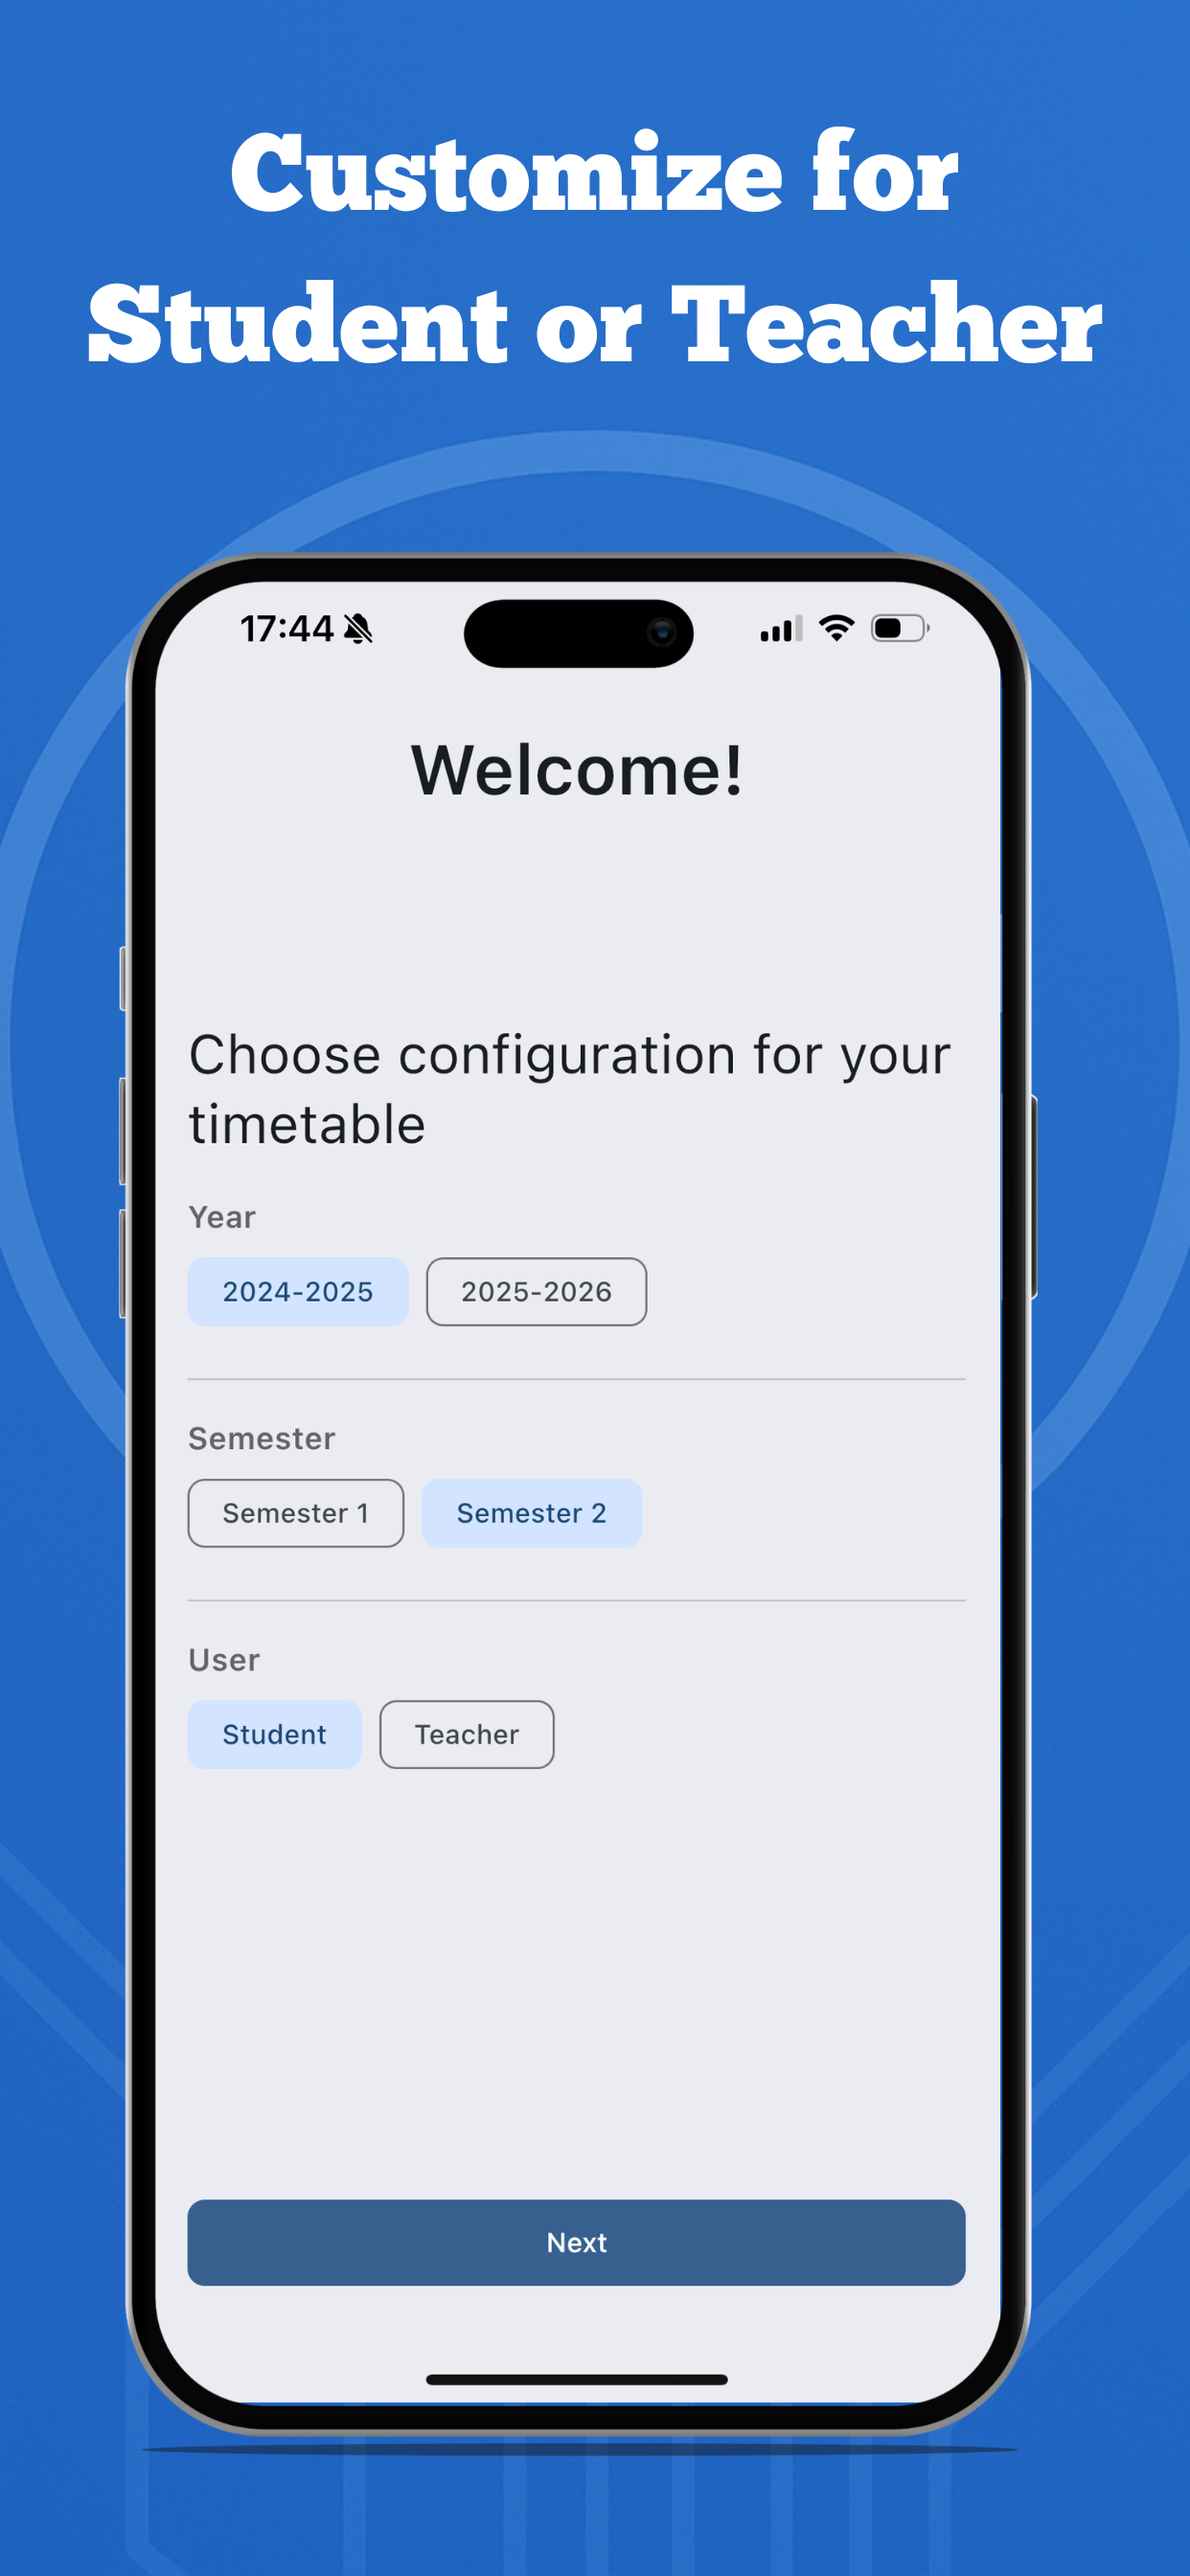
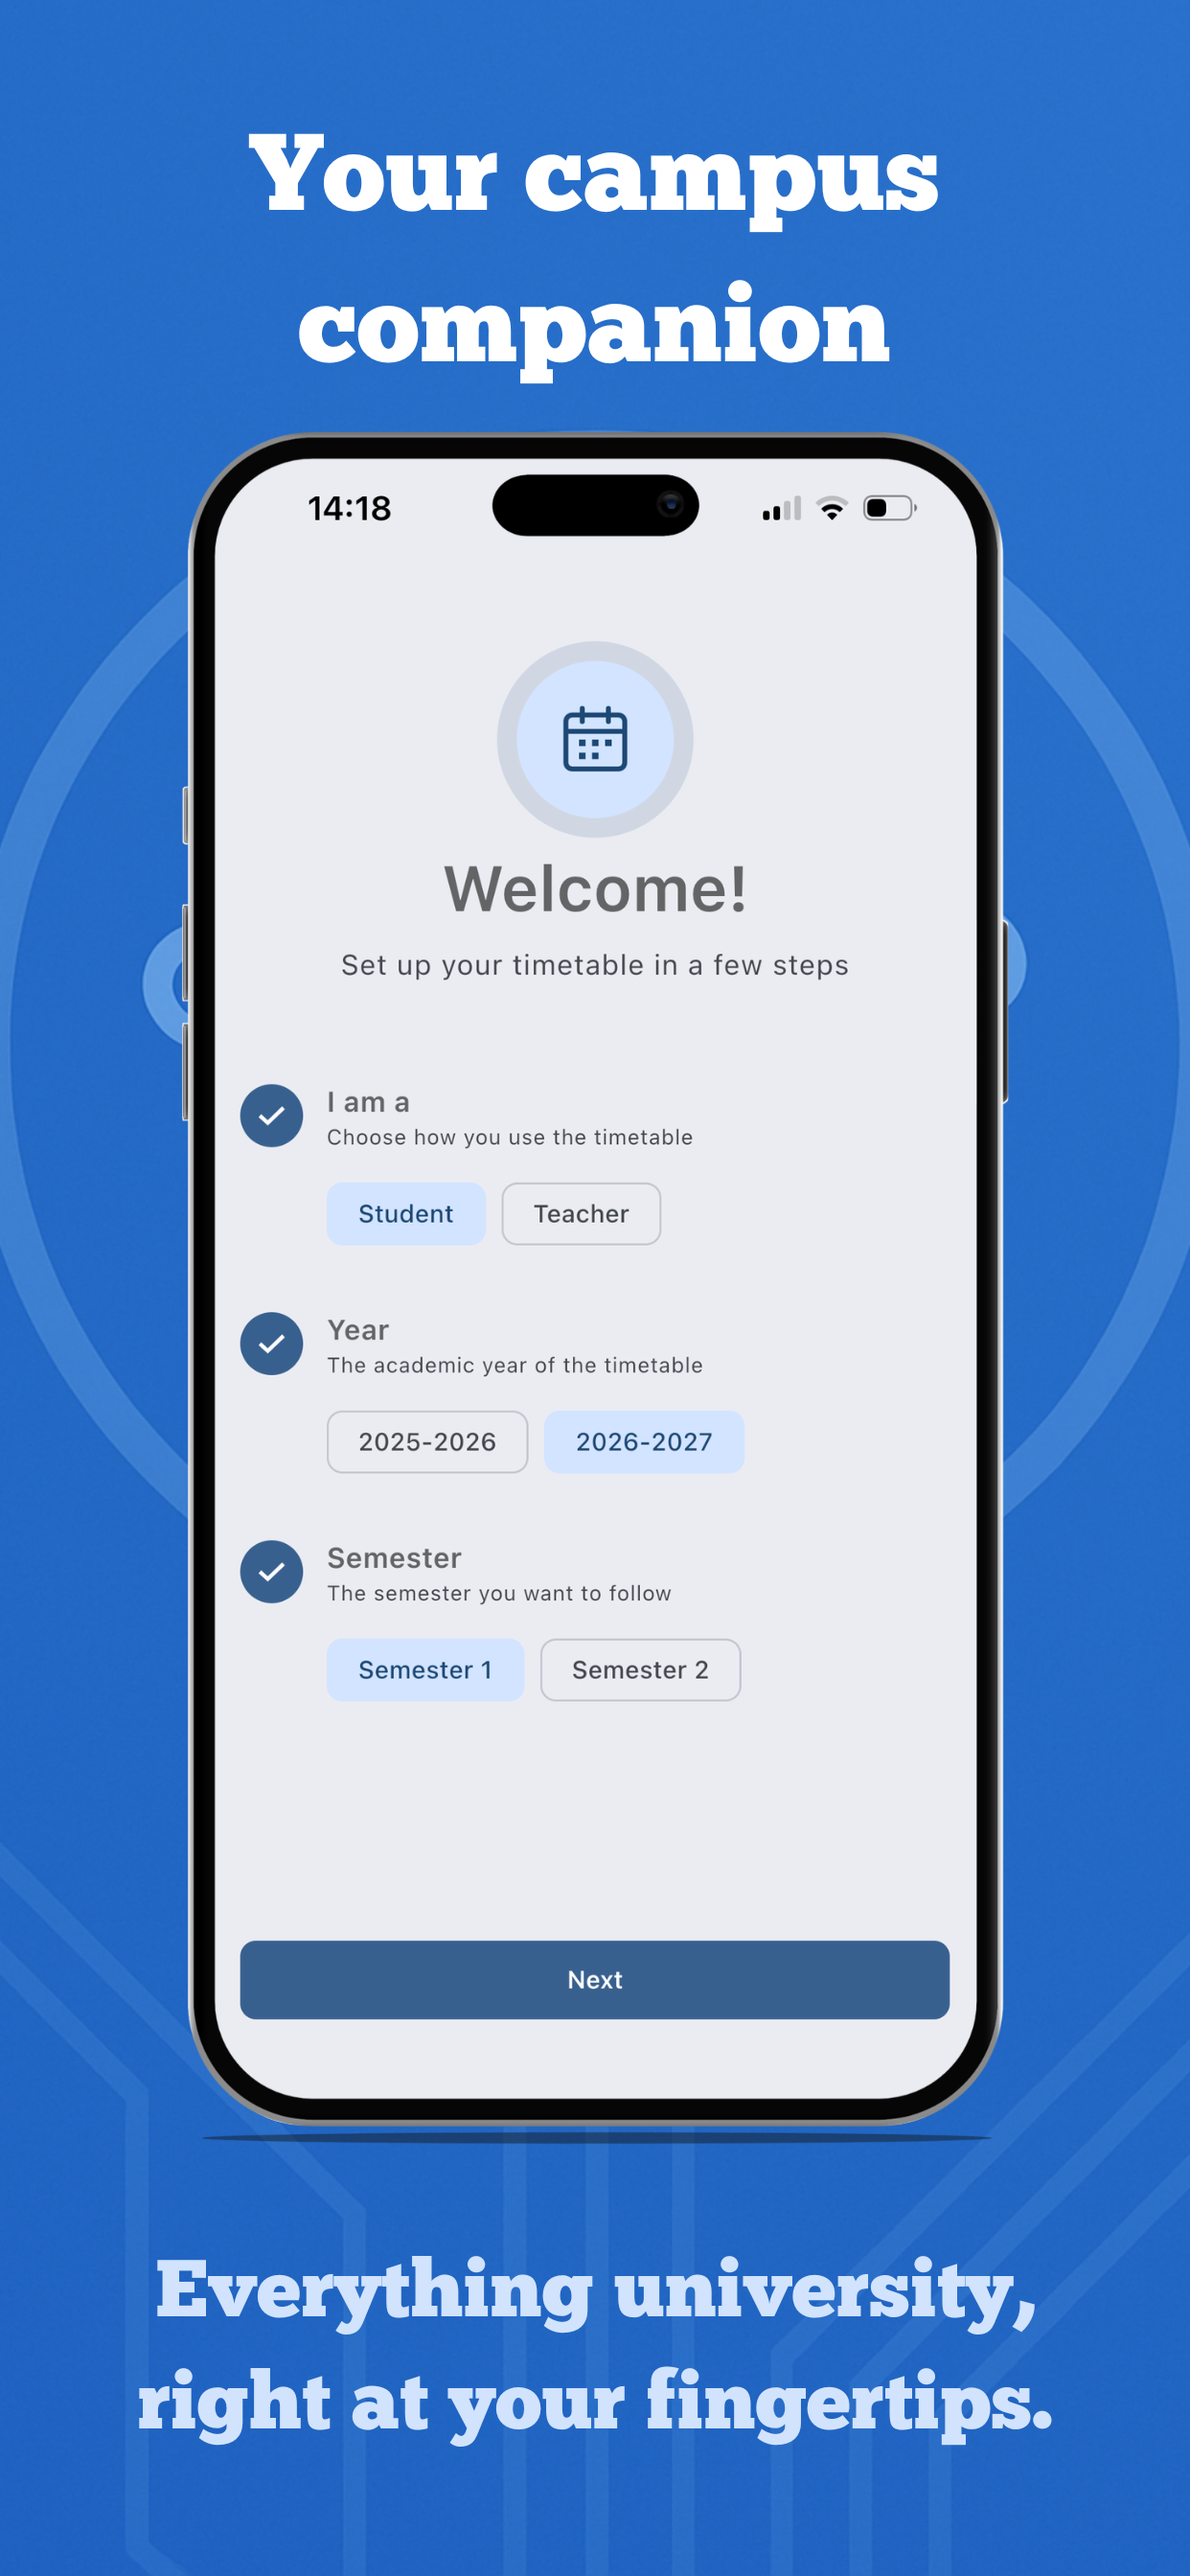
Update screenshots

diff --git a/README.md b/README.md
@@ -59,12 +59,12 @@ All timetable data is retrieved from the faculty’s **public website**.
 ## Screenshots
 <p float="left">
   <img src="https://github.com/SemenciucCosmin/Orar-UBB-FMI/blob/main/screenshots/1_onboarding.png" width="180">
-  <img src="https://github.com/SemenciucCosmin/Orar-UBB-FMI/blob/main/screenshots/2_main.png" width="180">
-  <img src="https://github.com/SemenciucCosmin/Orar-UBB-FMI/blob/main/screenshots/3_students.png" width="180">
+  <img src="https://github.com/SemenciucCosmin/Orar-UBB-FMI/blob/main/screenshots/2_timetable.png" width="180">
+  <img src="https://github.com/SemenciucCosmin/Orar-UBB-FMI/blob/main/screenshots/3_news.png" width="180">
 </p>
 
 <p float="left">
-  <img src="https://github.com/SemenciucCosmin/Orar-UBB-FMI/blob/main/screenshots/4_teachers.png" width="180">
-  <img src="https://github.com/SemenciucCosmin/Orar-UBB-FMI/blob/main/screenshots/5_subjects.png" width="180">
-  <img src="https://github.com/SemenciucCosmin/Orar-UBB-FMI/blob/main/screenshots/6_rooms.png" width="180">
+  <img src="https://github.com/SemenciucCosmin/Orar-UBB-FMI/blob/main/screenshots/4_calendar.png" width="180">
+  <img src="https://github.com/SemenciucCosmin/Orar-UBB-FMI/blob/main/screenshots/5_custom_event.png" width="180">
+  <img src="https://github.com/SemenciucCosmin/Orar-UBB-FMI/blob/main/screenshots/6_free_room.png" width="180">
 </p>
